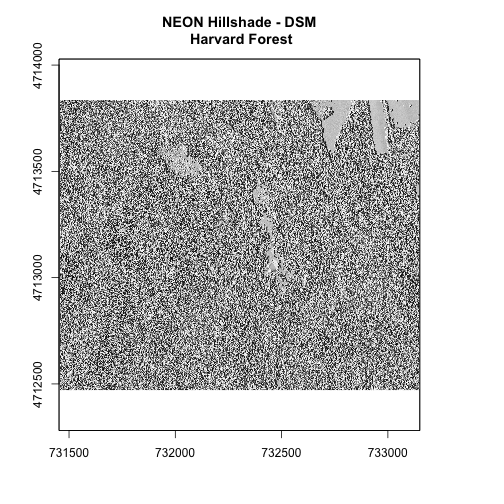
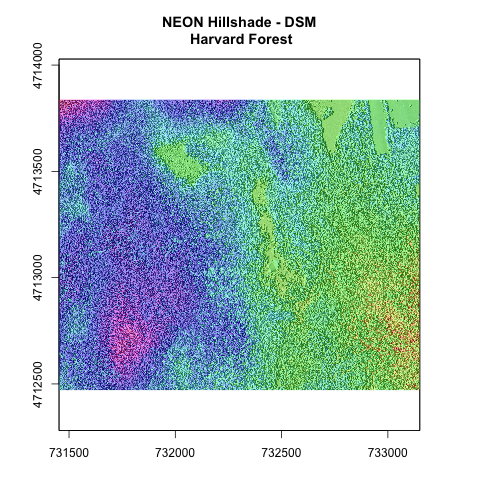
fixed missing image

diff --git a/_posts/2015-10-26-Rast01-Plot-Raster.md b/_posts/2015-10-26-Rast01-Plot-Raster.md
@@ -172,12 +172,8 @@ DSM on top of a `hillshade` of the DSM.
         col=grey(1:100/100),
         legend=F,
         main="NEON Hillshade - DSM\n Harvard Forest")
-
-![ ]({{ site.baseurl }}/images/rfigs/01-Plot-Raster/overlaying-hillshade-1.png) 
-
-Overlay the DSM raster on top of the hillshade.
-
-
+    
+    
     #overlay the DSM on top of the hillshade
     plot(DSM,
          col=rainbow(100),
@@ -185,5 +181,5 @@ Overlay the DSM raster on top of the hillshade.
          add=T,
          legend=F)
 
-    ## Error in graphics::rasterImage(x, e[1], e[3], e[2], e[4], interpolate = interpolate): plot.new has not been called yet
+![ ]({{ site.baseurl }}/images/rfigs/01-Plot-Raster/overlaying-hillshade-1.png) 
 
